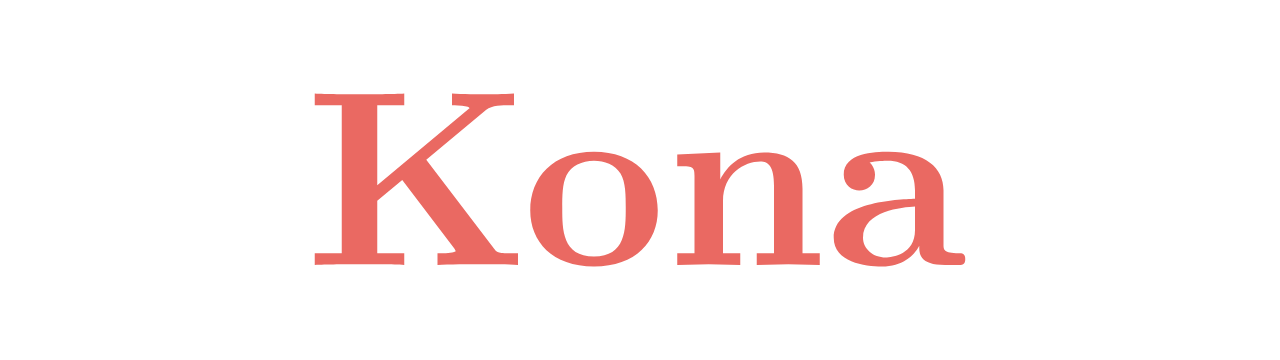
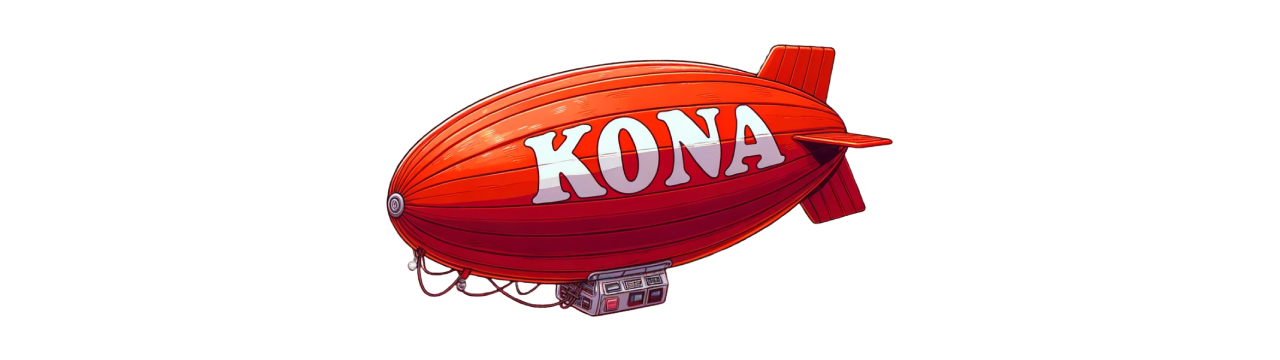
chore: Update `README.md` (#269)
Updates the `README` to reflect the current goals of the project.

Changed region(s): [[0.2188, 0.1222, 0.7812, 0.8861]]

diff --git a/README.md b/README.md
@@ -23,8 +23,11 @@
 
 ## What's Kona?
 
-Kona is a [fault proof program][fpp-specs] designed to deterministically execute a rollup state transition in order to
-verify an [L2 output root][g-output-root] from the L1 inputs it was [derived from][g-derivation-pipeline].
+Kona is a suite of portable implementations of the OP Stack rollup state transition, namely the [derivation pipeline][g-derivation-pipeline] and
+the block execution logic.
+
+Built on top of these libraries, this repository also features a [fault proof program][fpp-specs] designed to deterministically execute the
+rollup state transition in order to verify an [L2 output root][g-output-root] from the L1 inputs it was [derived from][g-derivation-pipeline].
 
 ### Development Status
 